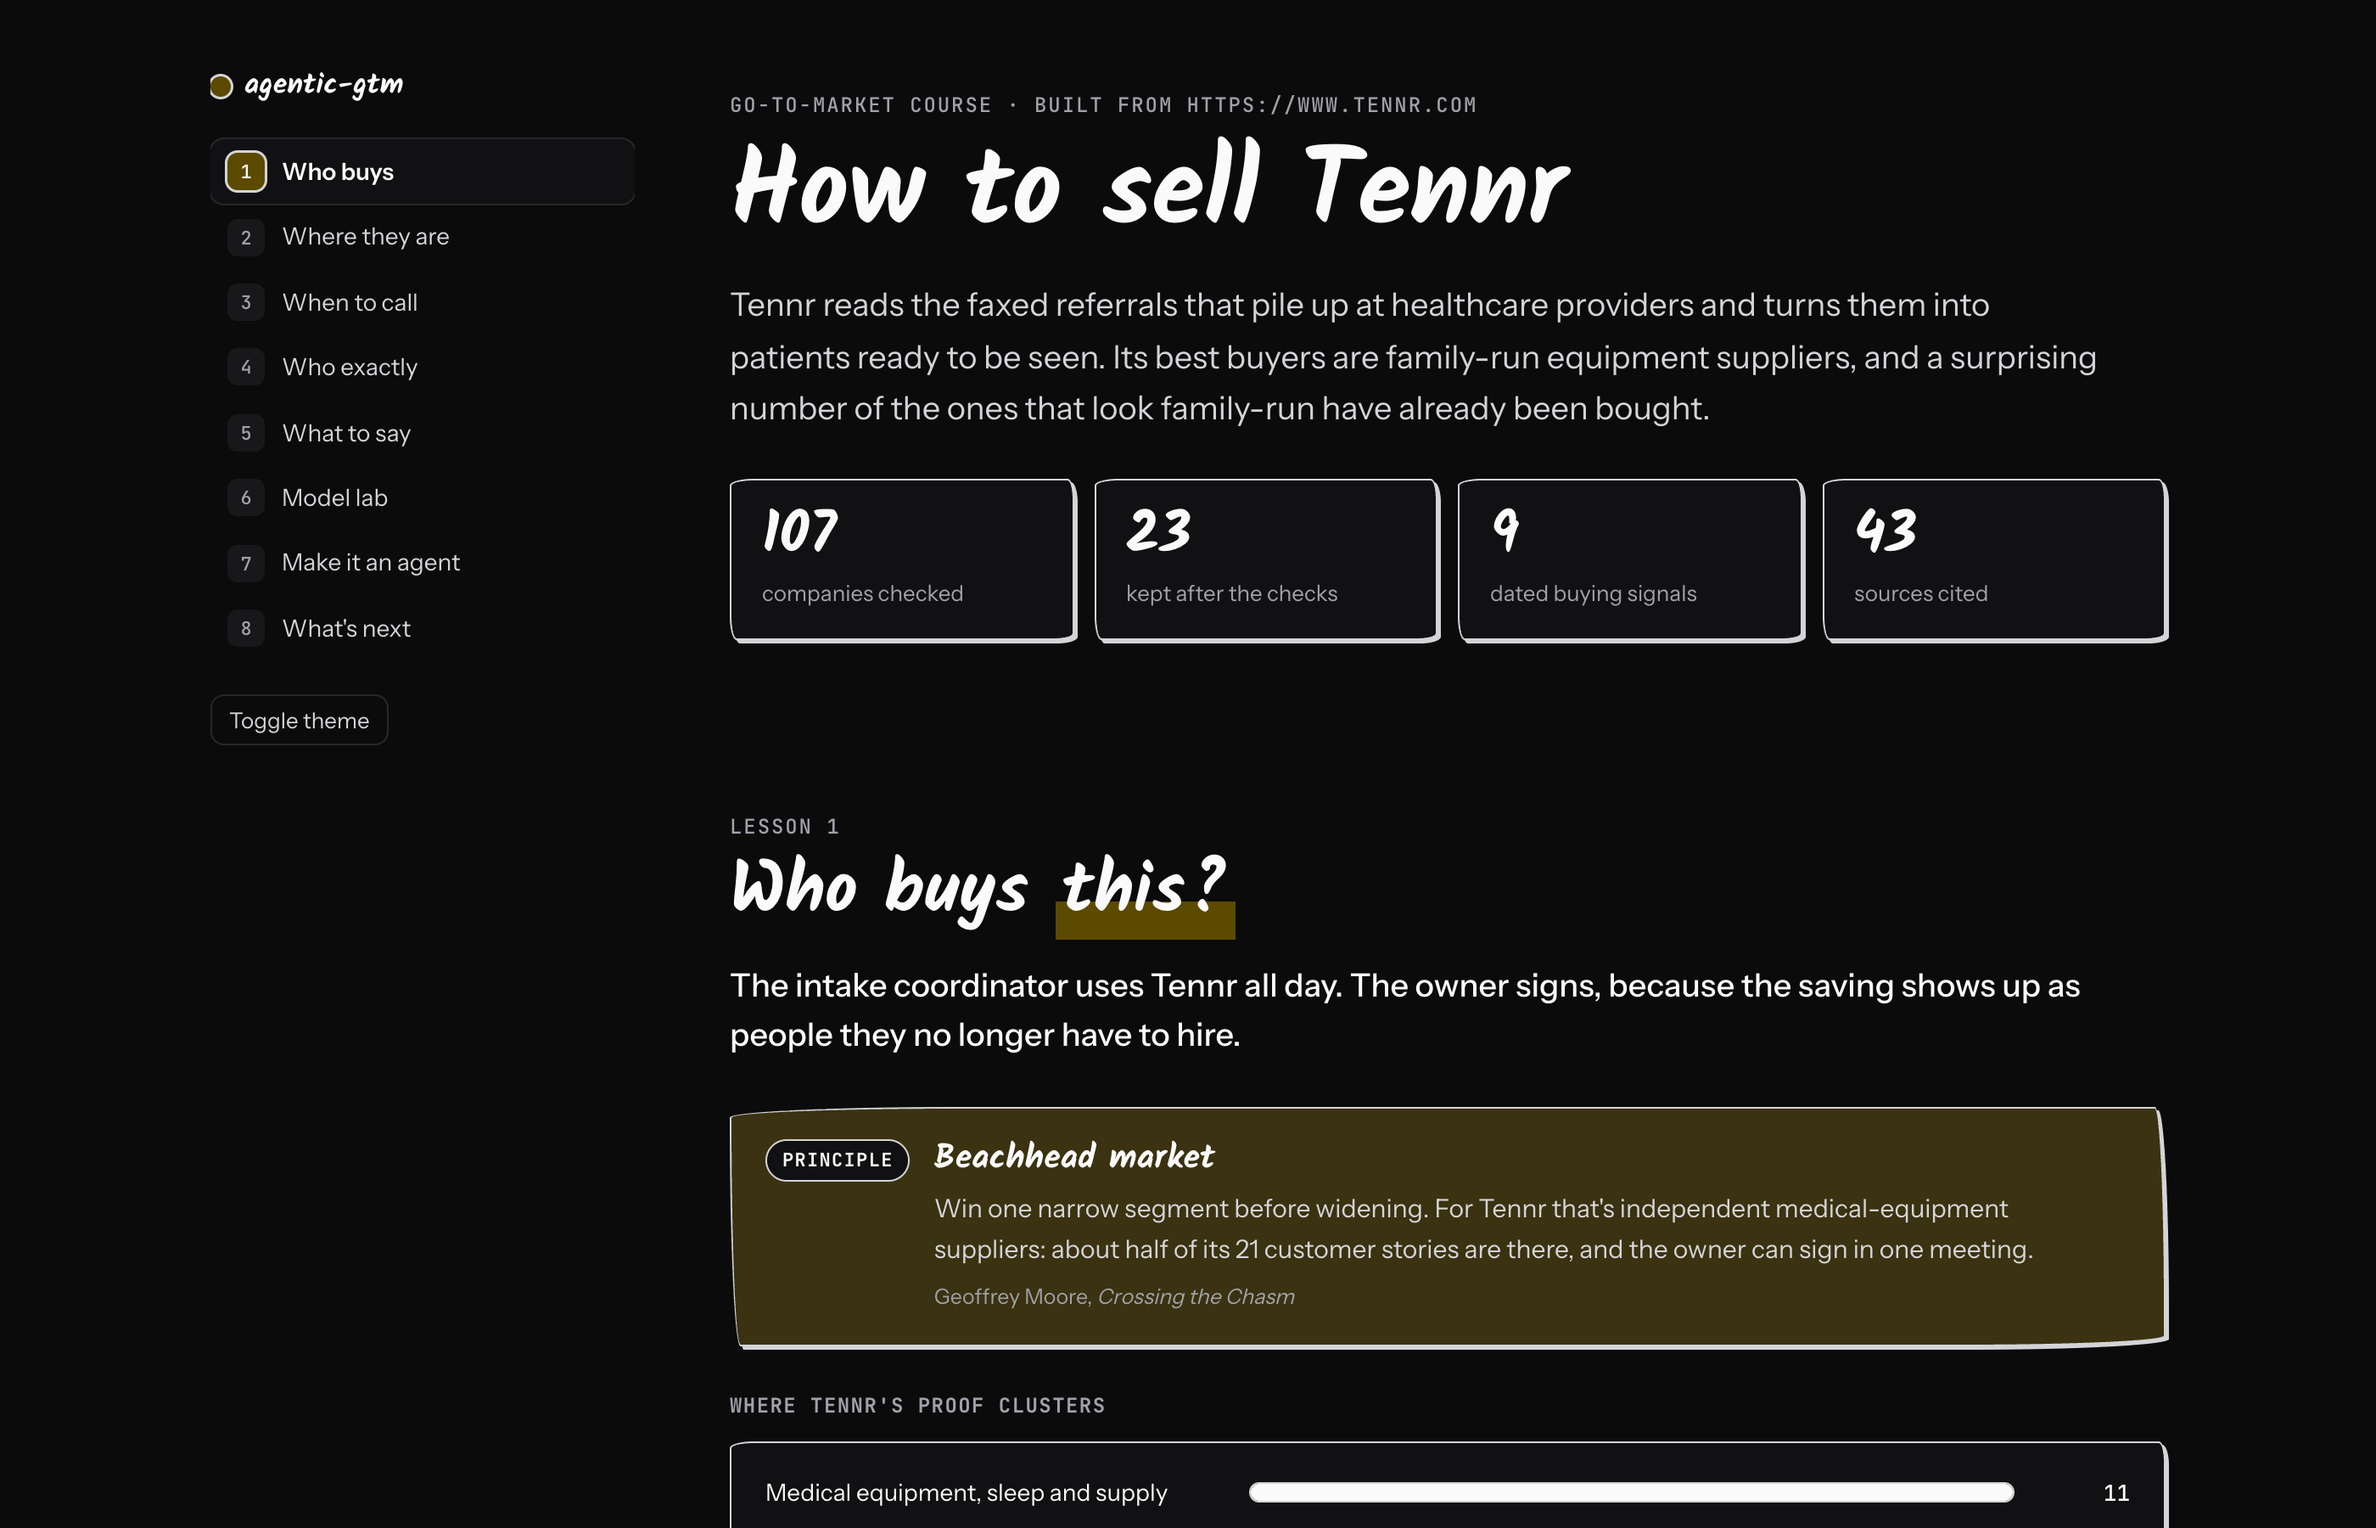
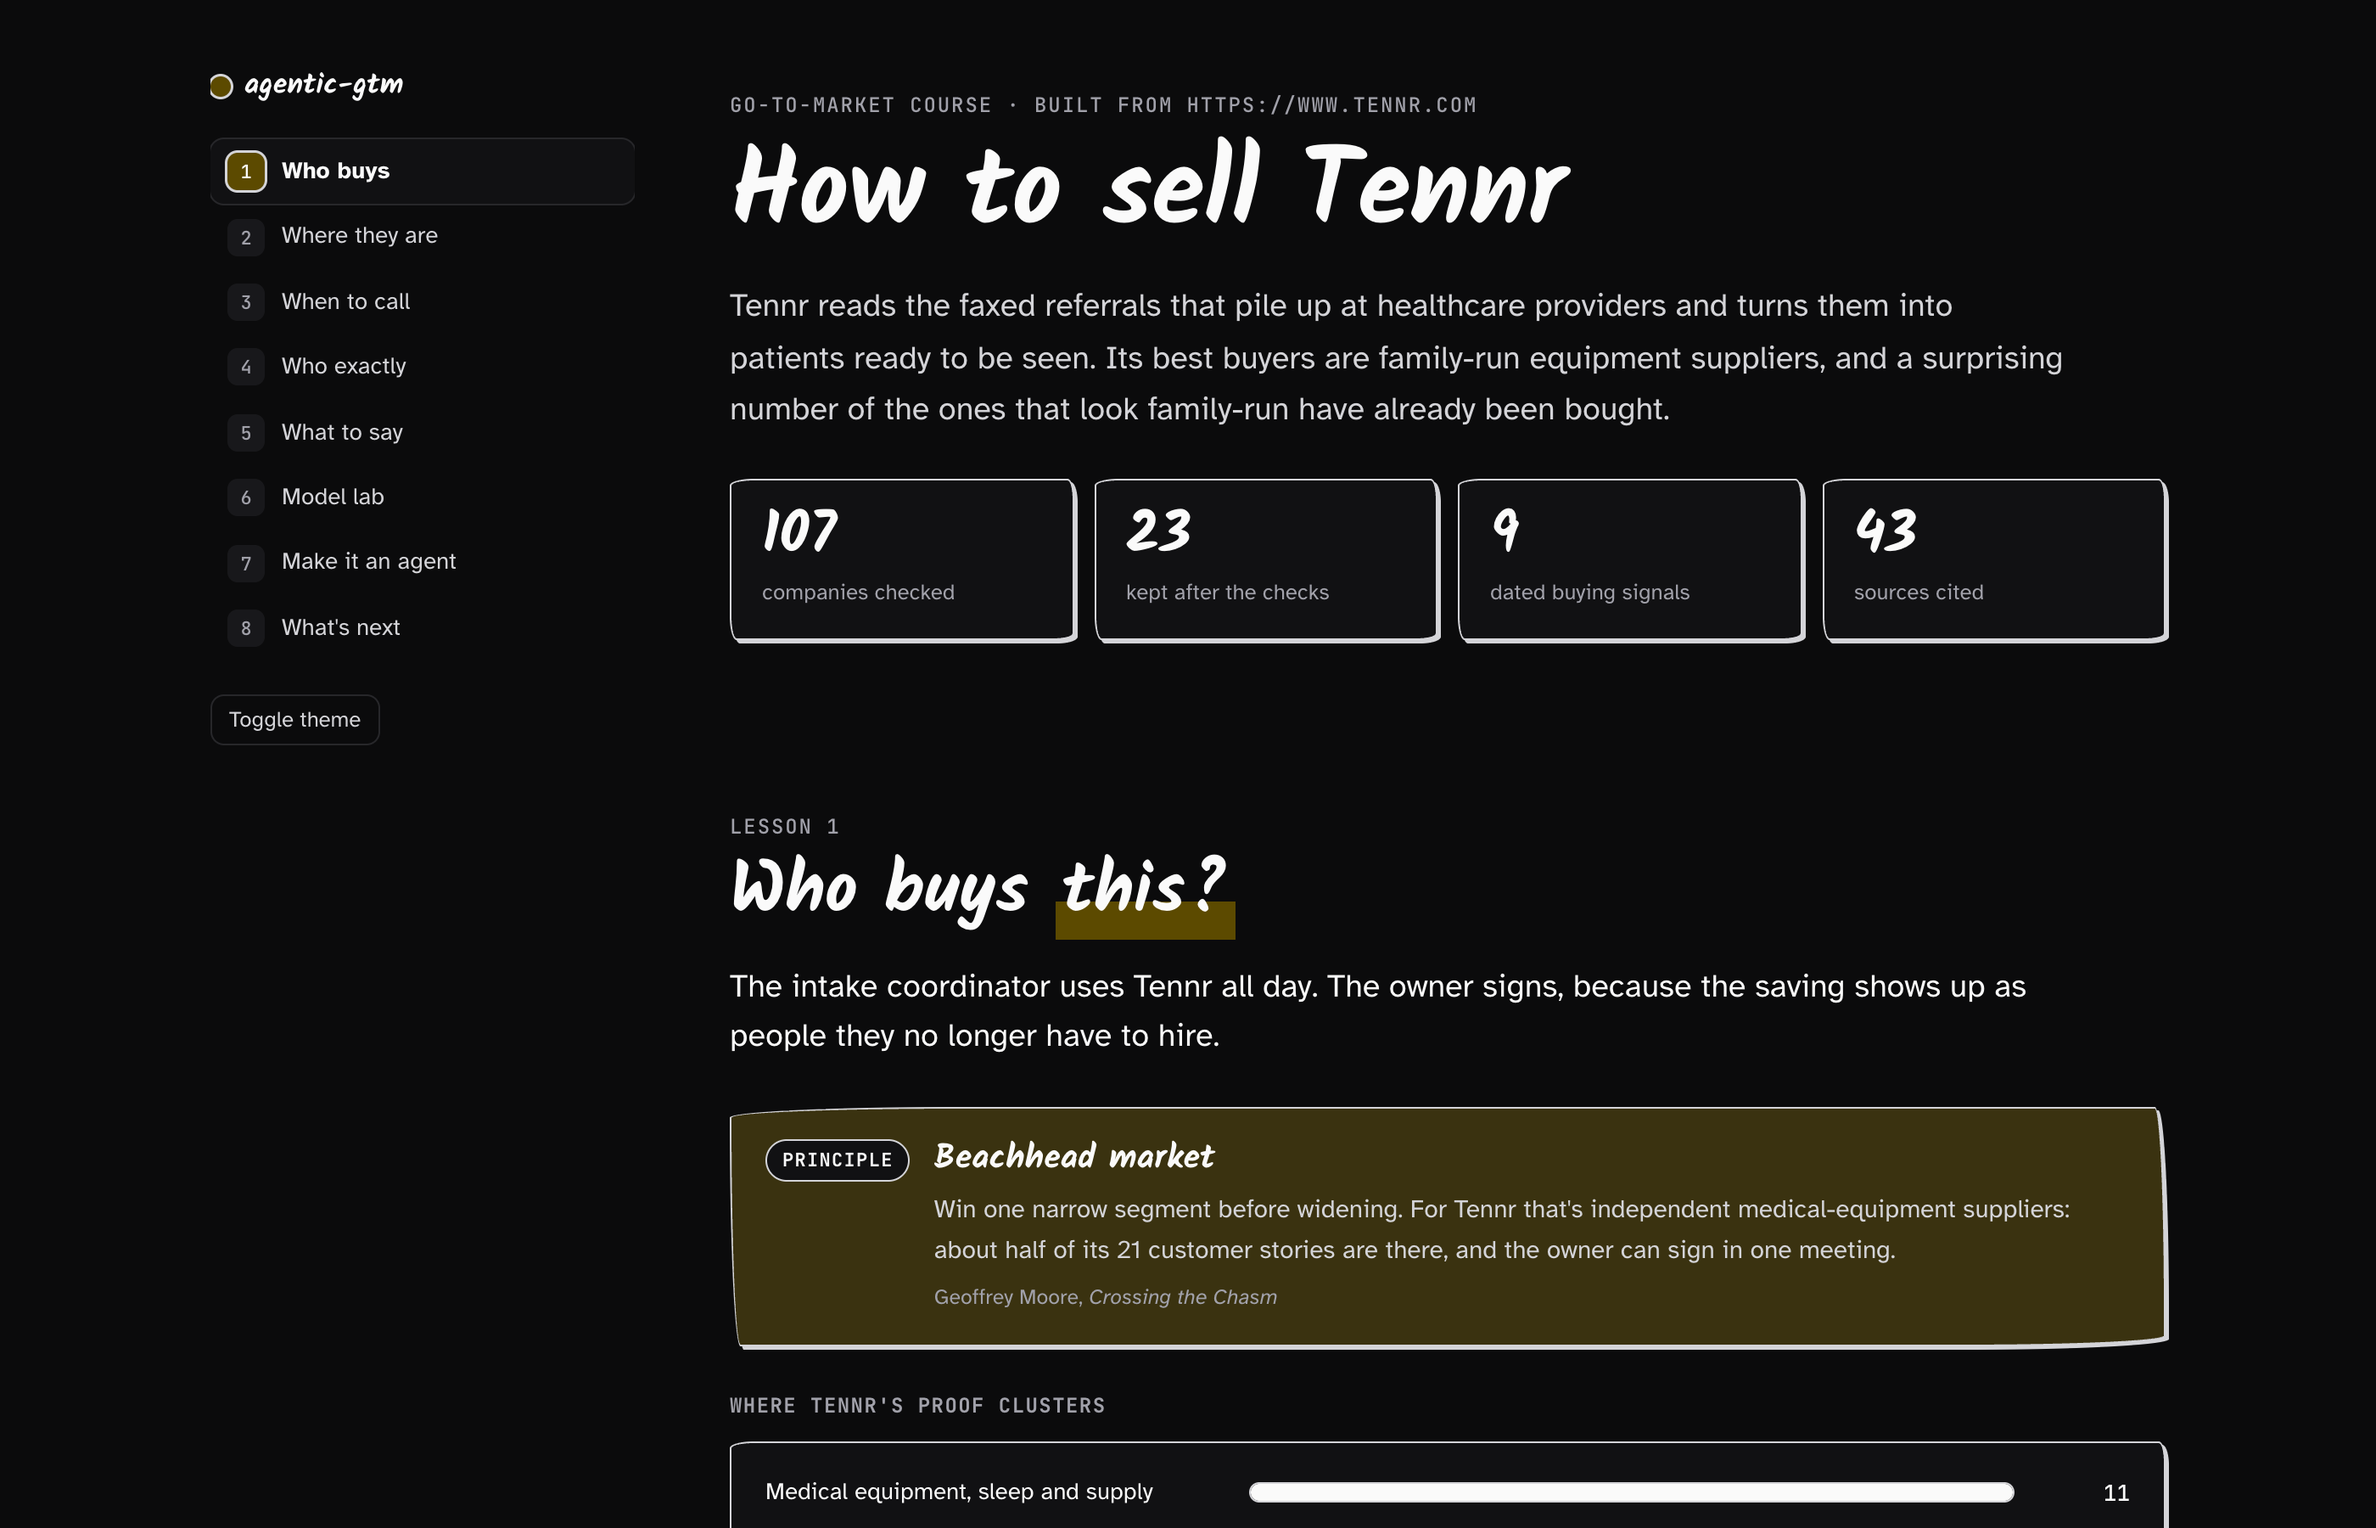
Course body type: Atkinson Hyperlegible

diff --git a/.claude/skills/agentic-gtm/templates/course.html b/.claude/skills/agentic-gtm/templates/course.html
@@ -6,7 +6,7 @@
 <title>GTM course</title>
 <link rel="preconnect" href="https://fonts.googleapis.com">
 <link rel="preconnect" href="https://fonts.gstatic.com" crossorigin>
-<link href="https://fonts.googleapis.com/css2?family=Kalam:wght@400;700&family=Instrument+Sans:wght@400;500;600;700&family=JetBrains+Mono:wght@400;500;700&display=swap" rel="stylesheet">
+<link href="https://fonts.googleapis.com/css2?family=Kalam:wght@400;700&family=Atkinson+Hyperlegible:ital,wght@0,400;0,700;1,400&family=JetBrains+Mono:wght@400;500;700&display=swap" rel="stylesheet">
 <style>
 :root {
   --paper: #ffffff; --paper-2: #f4f4f5; --card: #ffffff; --ink: #09090b; --ink-2: #3f3f46; --ink-3: #71717a;
@@ -14,7 +14,7 @@
   --otto: #0ca678; --otto-soft: #d3f9ea; --you: #b08800; --you-soft: #fff3bf;
   --good: #2b8a3e; --good-soft: #d3f9d8; --amber: #d9480f; --amber-soft: #fff4e6; --red: #e03131; --red-soft: #ffe3e3;
   --display: "Kalam", "Comic Neue", cursive;
-  --sans: "Instrument Sans", -apple-system, "Segoe UI", sans-serif;
+  --sans: "Atkinson Hyperlegible", -apple-system, "Segoe UI", sans-serif;
   --mono: "JetBrains Mono", ui-monospace, SFMono-Regular, Menlo, monospace;
   --r: 12px;
   --wobble: 255px 12px 225px 12px / 12px 225px 12px 255px;

diff --git a/examples/greptile/course.html b/examples/greptile/course.html
@@ -6,7 +6,7 @@
 <title>GTM course</title>
 <link rel="preconnect" href="https://fonts.googleapis.com">
 <link rel="preconnect" href="https://fonts.gstatic.com" crossorigin>
-<link href="https://fonts.googleapis.com/css2?family=Kalam:wght@400;700&family=Instrument+Sans:wght@400;500;600;700&family=JetBrains+Mono:wght@400;500;700&display=swap" rel="stylesheet">
+<link href="https://fonts.googleapis.com/css2?family=Kalam:wght@400;700&family=Atkinson+Hyperlegible:ital,wght@0,400;0,700;1,400&family=JetBrains+Mono:wght@400;500;700&display=swap" rel="stylesheet">
 <style>
 :root {
   --paper: #ffffff; --paper-2: #f4f4f5; --card: #ffffff; --ink: #09090b; --ink-2: #3f3f46; --ink-3: #71717a;
@@ -14,7 +14,7 @@
   --otto: #0ca678; --otto-soft: #d3f9ea; --you: #b08800; --you-soft: #fff3bf;
   --good: #2b8a3e; --good-soft: #d3f9d8; --amber: #d9480f; --amber-soft: #fff4e6; --red: #e03131; --red-soft: #ffe3e3;
   --display: "Kalam", "Comic Neue", cursive;
-  --sans: "Instrument Sans", -apple-system, "Segoe UI", sans-serif;
+  --sans: "Atkinson Hyperlegible", -apple-system, "Segoe UI", sans-serif;
   --mono: "JetBrains Mono", ui-monospace, SFMono-Regular, Menlo, monospace;
   --r: 12px;
   --wobble: 255px 12px 225px 12px / 12px 225px 12px 255px;

diff --git a/examples/tennr/course.html b/examples/tennr/course.html
@@ -6,7 +6,7 @@
 <title>GTM course</title>
 <link rel="preconnect" href="https://fonts.googleapis.com">
 <link rel="preconnect" href="https://fonts.gstatic.com" crossorigin>
-<link href="https://fonts.googleapis.com/css2?family=Kalam:wght@400;700&family=Instrument+Sans:wght@400;500;600;700&family=JetBrains+Mono:wght@400;500;700&display=swap" rel="stylesheet">
+<link href="https://fonts.googleapis.com/css2?family=Kalam:wght@400;700&family=Atkinson+Hyperlegible:ital,wght@0,400;0,700;1,400&family=JetBrains+Mono:wght@400;500;700&display=swap" rel="stylesheet">
 <style>
 :root {
   --paper: #ffffff; --paper-2: #f4f4f5; --card: #ffffff; --ink: #09090b; --ink-2: #3f3f46; --ink-3: #71717a;
@@ -14,7 +14,7 @@
   --otto: #0ca678; --otto-soft: #d3f9ea; --you: #b08800; --you-soft: #fff3bf;
   --good: #2b8a3e; --good-soft: #d3f9d8; --amber: #d9480f; --amber-soft: #fff4e6; --red: #e03131; --red-soft: #ffe3e3;
   --display: "Kalam", "Comic Neue", cursive;
-  --sans: "Instrument Sans", -apple-system, "Segoe UI", sans-serif;
+  --sans: "Atkinson Hyperlegible", -apple-system, "Segoe UI", sans-serif;
   --mono: "JetBrains Mono", ui-monospace, SFMono-Regular, Menlo, monospace;
   --r: 12px;
   --wobble: 255px 12px 225px 12px / 12px 225px 12px 255px;
